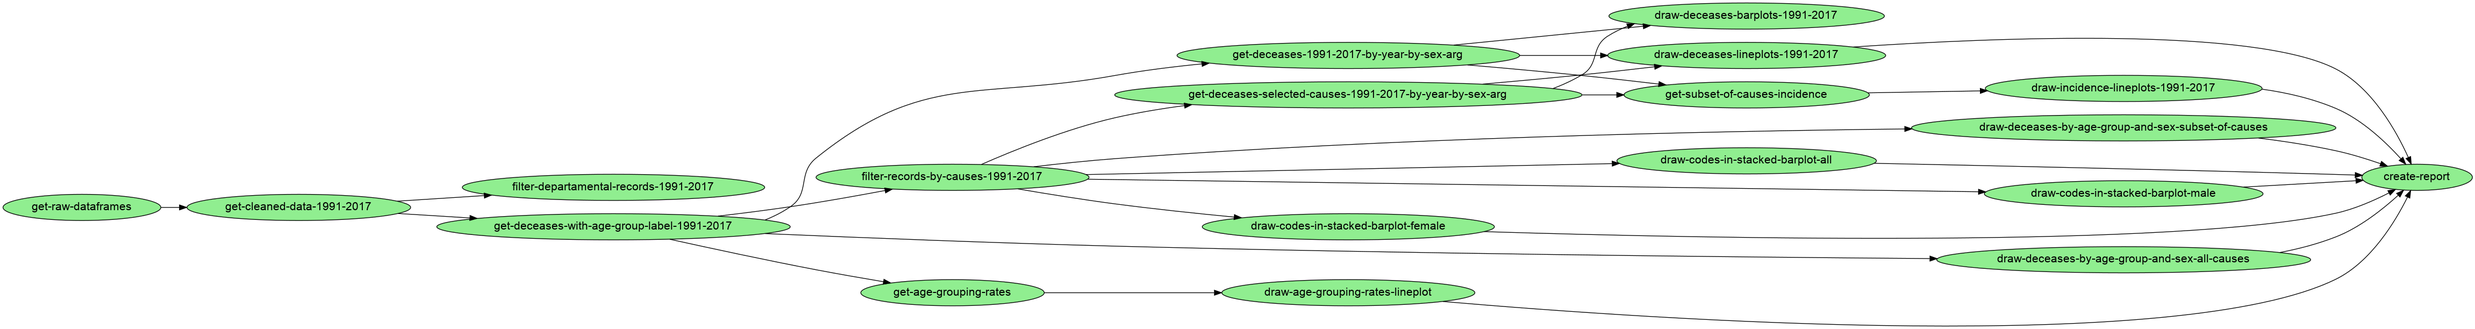
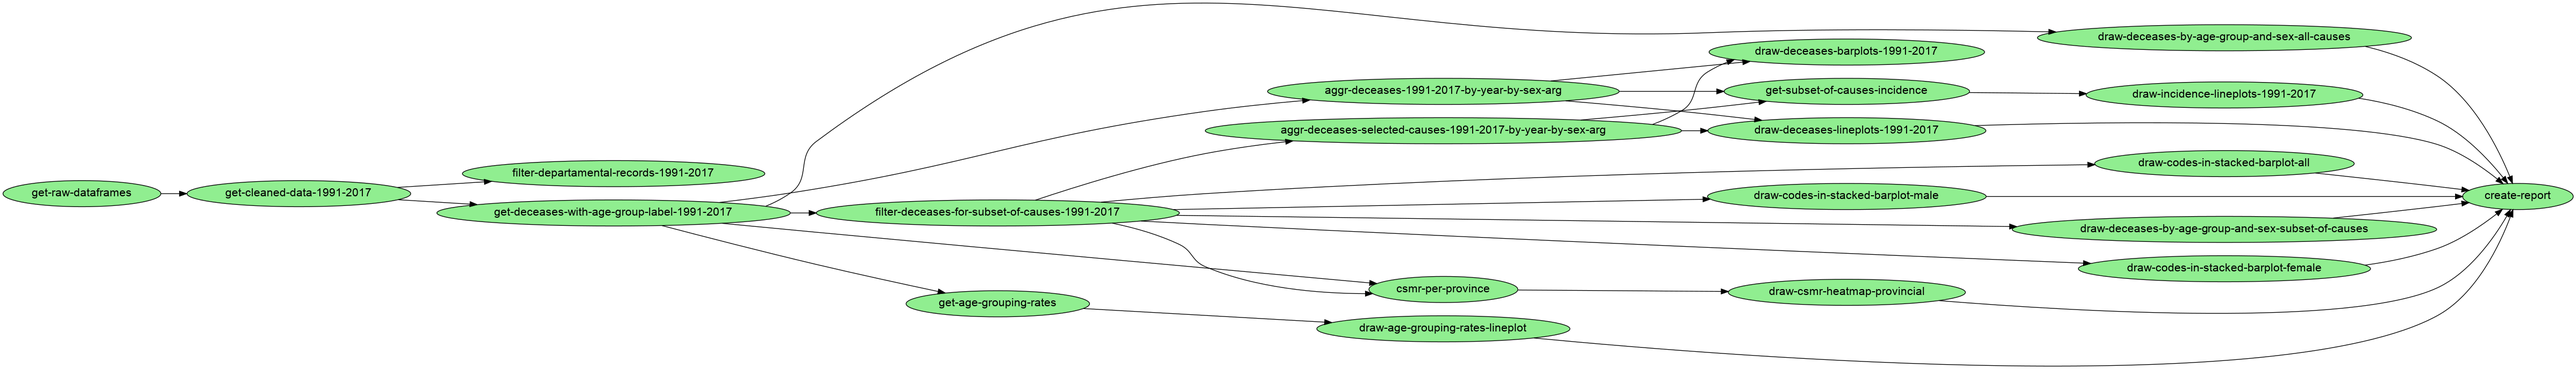
add cause-specific mortality rate functionality

diff --git a/tasks/csmr.py b/tasks/csmr.py
@@ -1,0 +1,102 @@
+# cause-specific mortality rate
+import pandas
+from surnames_package import utils
+import seaborn
+import matplotlib.pyplot as plt
+
+def calculate_csmr_per_province(upstream, product):
+    """
+    The measure that divides the number of deaths of a specific cause by all total deaths
+    in a population per year is called the cause-specific mortality rate (CSMR).
+
+    The cause-specific mortality rate is a measure of the number of deaths from a specific
+    cause that occur in a population over a specific period of time, typically one year,
+    per 1,000 people in the population. It is calculated by dividing the number of deaths
+    from a specific cause by the total number of deaths in the population and then multiplying
+    by 1,000. The cause-specific mortality rate is often used to compare the impact of different
+    causes of death on a population or to track changes in mortality rates over time.
+
+    For example, the CSMR for heart disease would be calculated by dividing the number of deaths
+    from heart disease in a population over a specific period of time by the total number of deaths
+    in the population over that same period of time, and then multiplying by 1,000. This would give
+    the number of deaths from heart disease per 1,000 people in the population per year.
+    """
+    
+    # read data:    
+    df = pandas.read_parquet(upstream['filter-deceases-for-subset-of-causes-1991-2017'])
+    df_all_deceases = pandas.read_parquet(upstream['get-deceases-with-age-group-label-1991-2017'])
+
+    columns_selection = ['provincia_id', 'codigo_defuncion', 'year']
+
+    # clean specific codes data
+    df_subset_deceases_by_province = df[columns_selection].copy()
+    df_subset_deceases_by_province = df_subset_deceases_by_province\
+        .groupby(by=['year', 'provincia_id'])\
+            .count()\
+        .reset_index()\
+        .rename(columns={'codigo_defuncion': 'subset_deceases'})
+
+    # clean all deceases data
+    df_deceases_by_province = df_all_deceases[columns_selection].copy()
+    df_deceases_by_province = df_deceases_by_province\
+        .groupby(by=['year', 'provincia_id'])\
+            .count()\
+        .reset_index()\
+        .rename(columns={'codigo_defuncion': 'deceases'})
+
+    data_rates = pandas.merge(
+        df_deceases_by_province,
+        df_subset_deceases_by_province,
+        on=['year', 'provincia_id']
+    )
+
+    # calculate rate
+    data_rates['csmr'] = (data_rates['subset_deceases'] / data_rates['deceases']) * 1_000
+
+    # create rate dataframe
+    df_csmr = data_rates[['year', 'provincia_id', 'csmr']]
+    
+    # save
+    df_csmr.to_parquet(str(product))
+    
+    
+def draw_csmr_heatmap_provincial(upstream, product):
+    
+    df_csmr = pandas.read_parquet(upstream['csmr-per-province'])
+    df_csmr_pivot = df_csmr.pivot(index='provincia_id', columns='year', values='csmr')
+
+    df_csmr_pivot.index.name = None
+    df_csmr_pivot.columns.name = None
+
+    df_csmr_pivot = df_csmr_pivot.reset_index().rename(columns={'index': 'provincia_id'})
+
+    df_csmr_pivot = utils.append_province_description(
+        df_csmr_pivot,
+        provinceCodeColumn='provincia_id')
+
+    df_csmr_pivot = df_csmr_pivot\
+        .sort_values(by=['region_nombre', 'provincia_nombre'])\
+        .drop(columns=['provincia_id', 'region_nombre', 'region_id'])
+
+    df_csmr_pivot = df_csmr_pivot[~df_csmr_pivot['provincia_nombre'].isna()]
+
+    f, ax = plt.subplots(figsize=(11, 9))
+
+    # Generate a custom diverging colormap
+    cmap = seaborn.diverging_palette(230, 20, as_cmap=True)
+
+    # create the heatmap with Seaborn
+    seaborn.heatmap(
+        df_csmr_pivot.set_index('provincia_nombre'),
+        cmap=cmap,
+        square=True,
+        linewidths=.5,
+        cbar_kws={"shrink": .5})
+
+    # set labels and title
+    plt.xlabel("Year")
+    plt.ylabel("Province")
+    plt.title("Cause-specific mortality rate (CSMR) per province")
+
+    plt.savefig(str(product), dpi=300)
+    plt.close()

diff --git a/tasks/visualization.py b/tasks/visualization.py
@@ -8,9 +8,9 @@ from matplotlib import ticker
 def draw_deceases_barplots(upstream, product, causeCodes):
     
     df_all_deceases = pandas.read_parquet(
-        str(upstream["get-deceases-1991-2017-by-year-by-sex-arg"]))
+        str(upstream["aggr-deceases-1991-2017-by-year-by-sex-arg"]))
     df_deceases_of_interest = pandas.read_parquet(
-        str(upstream["get-deceases-selected-causes-1991-2017-by-year-by-sex-arg"]))
+        str(upstream["aggr-deceases-selected-causes-1991-2017-by-year-by-sex-arg"]))
     
     # 3. combine
     df = pandas.merge(
@@ -53,9 +53,9 @@ def draw_deceases_barplots(upstream, product, causeCodes):
 def draw_deceases_lineplots(upstream, product, causeCodes):
     
     df_all_deceases = pandas.read_parquet(
-        str(upstream["get-deceases-1991-2017-by-year-by-sex-arg"]))
+        str(upstream["aggr-deceases-1991-2017-by-year-by-sex-arg"]))
     df_deceases_of_interest = pandas.read_parquet(
-        str(upstream["get-deceases-selected-causes-1991-2017-by-year-by-sex-arg"]))
+        str(upstream["aggr-deceases-selected-causes-1991-2017-by-year-by-sex-arg"]))
     
     # 3. combine
     df = pandas.merge(
@@ -183,7 +183,7 @@ def draw_causes_deceases_by_age_group_and_sex(upstream, product, categoryDisplay
     """
     Dibuja un grafico de barras categorizadas por grupo etario.
     """
-    df = pandas.read_parquet(str(upstream["filter-records-by-causes-1991-2017"]))
+    df = pandas.read_parquet(str(upstream["filter-deceases-for-subset-of-causes-1991-2017"]))
 
     df['sex'] = cleanning.get_sex_correspondence(df['sexo'])
     counts_df = \

diff --git a/tasks/get.py b/tasks/get.py
@@ -129,7 +129,7 @@ def get_deceases_by_year_by_sex_arg(upstream, product, causeCodes):
     output_df.to_parquet(str(product))
 
 
-def get_deceases_by_year_by_sex_arg_all(upstream, product):
+def aggr_deceases_by_year_by_sex_arg_all(upstream, product):
     """
     Create dataset:
     #    year  deceases_indeterminado  deceases_mujer   deceases_varon  
@@ -197,8 +197,8 @@ def get_deceases_by_year_by_sex_arg_all(upstream, product):
     df_deceases_all.to_parquet(str(product))
 
 
-def get_deceases_selected_causes_by_year_by_sex_arg(upstream, product):
-    df_causes_subset = pandas.read_parquet(str(upstream['filter-records-by-causes-1991-2017']))
+def aggr_deceases_selected_causes_by_year_by_sex_arg(upstream, product):
+    df_causes_subset = pandas.read_parquet(str(upstream['filter-deceases-for-subset-of-causes-1991-2017']))
     
     df_causes_subset['sex_correspondence'] = \
         cleanning.get_sex_correspondence(df_causes_subset['sexo'])

diff --git a/tasks/report.py b/tasks/report.py
@@ -99,8 +99,13 @@ def create_report(upstream, product, causeName, causesCodes, ageCategoryCauses):
     report.add_section(
         title='Tasas anuales por grupo etario',
         text=f"Tasa: Fallecimientos a causa de {causeName} por cada 1,000 fallecimientos",
-        figure=str(upstream['draw-age-grouping-rates-lineplot'])
+        figure=str(upstream['draw-age-grouping-rates-lineplot'])    
+    )
     
+    report.add_section(
+        title='Tasa de mortallidad por causas espacíficas (CSMR).',
+        text=f"Tasa: Fallecimientos a causa de {causeName} por cada 1,000 fallecimientos en cada provincia",
+        figure=str(upstream['draw-csmr-heatmap-provincial'])
     )
 
     # save:

diff --git a/tasks/indicators.py b/tasks/indicators.py
@@ -2,9 +2,9 @@ import pandas
 
 def get_causes_incidence(upstream, product):
     df_all_deceases = pandas.read_parquet(
-        str(upstream['get-deceases-1991-2017-by-year-by-sex-arg']))
+        str(upstream['aggr-deceases-1991-2017-by-year-by-sex-arg']))
     df_causes_subset_deceases = pandas.read_parquet(
-        str(upstream['get-deceases-selected-causes-1991-2017-by-year-by-sex-arg']))
+        str(upstream['aggr-deceases-selected-causes-1991-2017-by-year-by-sex-arg']))
 
     # 3. combine
     df = pandas.merge(

diff --git a/tasks/vis/stacked_barplot.py b/tasks/vis/stacked_barplot.py
@@ -26,7 +26,7 @@ def draw_codes_in_stacked(upstream, product, codeColors, causeName, criterion):
     PERIOD_COL = 'year'
     # leer
     df_causes = pandas.read_parquet(
-        str(upstream['filter-records-by-causes-1991-2017']))
+        str(upstream['filter-deceases-for-subset-of-causes-1991-2017']))
 
     _codesGrouping = utils.get_codes_categorization(
         df_causes[DECEASE_CODE_COL].unique())
